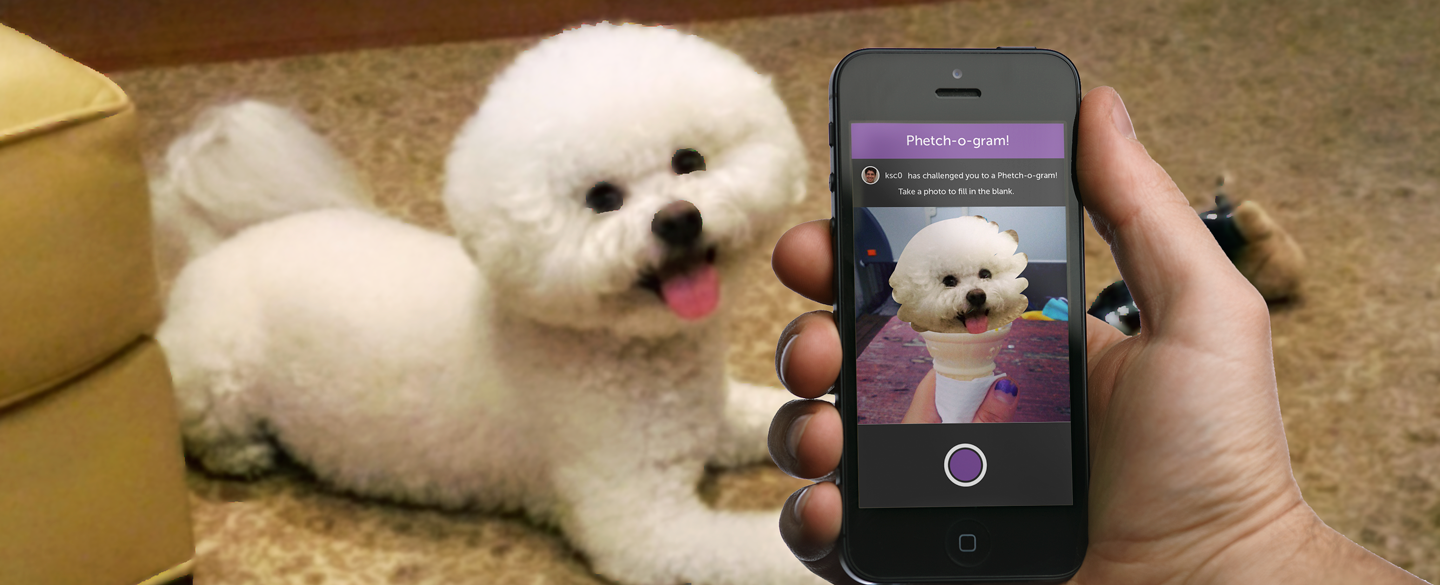
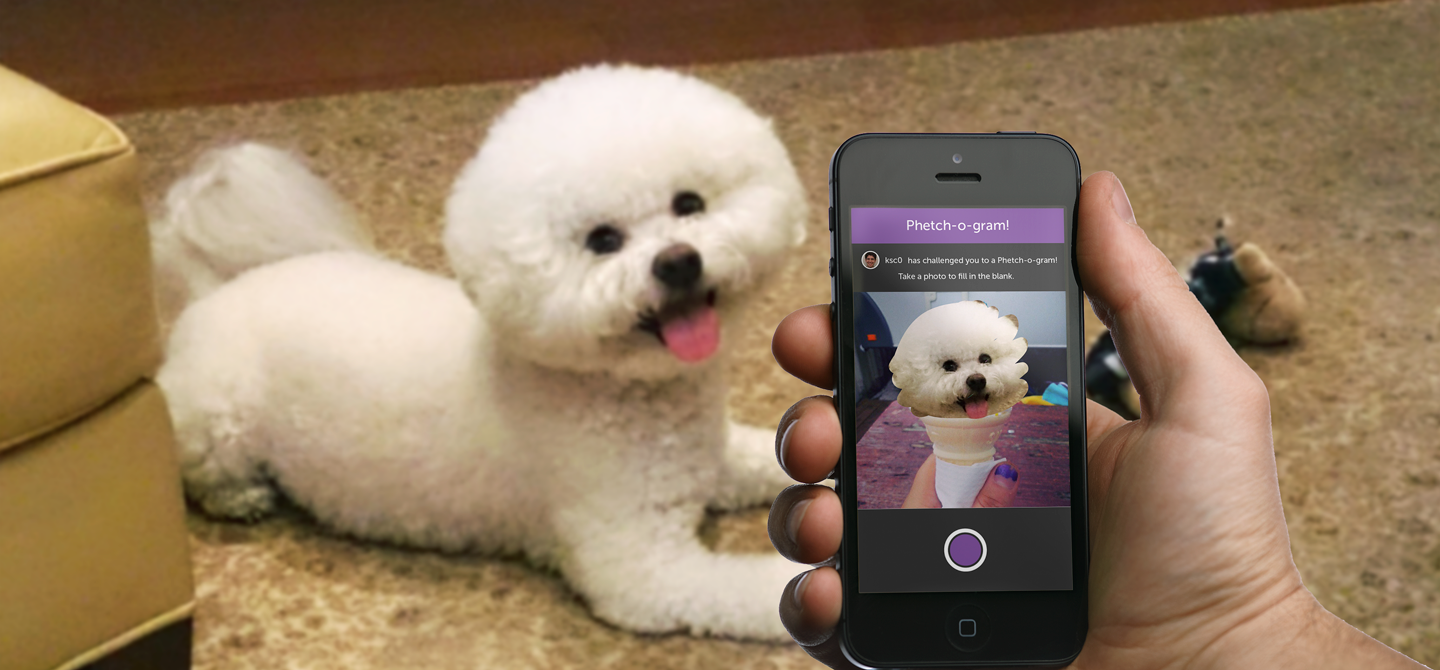
misc tweaks

diff --git a/index.html b/index.html
@@ -62,7 +62,7 @@
 </section>
 <section class="signup">
     <div class="container">
-        <h3 class="sectionheader">Sign up for Phetch today!</h3>
+        <h1 class="sectionheader">Sign up for Phetch today!</h1>
         <p>We're currently pretending to be in private beta. Sign up for updates.</p>
 
         <form action="//phet.us9.list-manage.com/subscribe/post?u=779f968f10aa64f000651658e&amp;id=b18e4191b5" method="post" id="mc-embedded-subscribe-form" name="mc-embedded-subscribe-form" class="validate" target="_blank" novalidate>
@@ -80,7 +80,7 @@
             </div>    <!-- real people should not fill this in and expect good things - do not remove this or risk form bot signups-->
         </form>
 </section>
-<!--<footer><div class="container">Made with ♥ in NYC. (stop trying to make phetch happen).</div></footer>-->
+<footer><div class="container">Phetch was made with ♥ in NYC. No puppies were harmed in the making of this app.</div></footer>
 <script type="text/template" class="testimonial">
 <div class="testimonial">
     <div class="quote">

diff --git a/css/sections/howitworks.less b/css/sections/howitworks.less
@@ -73,7 +73,7 @@
 
         &.step-1 {
             .photo {
-                background-image: url(../images/steps/step1.png);
+                background-image: url(../images/steps/step-alt-1.png);
             }
         }
 
@@ -83,13 +83,13 @@
             }
             .photo {
                 float: left;
-                background-image: url(../images/steps/step2.png);
+                background-image: url(../images/steps/step-alt-2.png);
             }
         }
 
         &.step-3 {
             .photo {
-                background-image: url(../images/steps/step3.png);
+                background-image: url(../images/steps/step-alt-3.png);
             }
         }
     }
@@ -100,8 +100,9 @@
         width: @size;
         display: inline-block;
         margin-left: 10px;
+        padding-left: 3px;
         border-radius: 50%;
-        border: 2px solid white;
+        // border: 2px solid white;
         width: @size;
         font-size: 40px;
         line-height: @size;

diff --git a/css/sections/hero.less b/css/sections/hero.less
@@ -1,7 +1,7 @@
 .hero {
     @phone-width: 331.5px;
     color: white;
-    background-image: url(../images/hero-image.png);
+    background-image: url(../images/hero-images/hero-image2.png);
     background-position: center;
     background-repeat: none;
 
@@ -12,7 +12,8 @@
 
     .container {
         position: relative;
-        min-height: 300px;
+        min-height: 250px;
+        padding: 340px 0px 60px 0px;
     }
 
     .logo {

diff --git a/css/sections/testimonials.less b/css/sections/testimonials.less
@@ -4,7 +4,7 @@
     background: @purple;
 
     .sectionheader {
-        font-size: @large-size;
+        // font-size: @large-size;
         padding-bottom: 0;
         hr {
             margin-top: 30px;
@@ -42,7 +42,7 @@
         color: #FFF;
         text-align: center;
         font-weight: 200;
-        font-size: 150%;
+        font-size: 120%;
         line-height: 2;
 
         p {

diff --git a/css/sections/signup.less b/css/sections/signup.less
@@ -9,13 +9,14 @@
     }
 
     .sectionheader {
-        padding-bottom: 40px;
-        font-size: @holy-fucking-shit-size;
+        padding-bottom: 20px;
+        // font-size: @holy-fucking-shit-size;
     }
 
     p {
         font-size: 24px;
-        margin-bottom: 20px;
+        margin-bottom: 60px;
+        text-align: center;
     }
 
     input {

diff --git a/css/footer.less b/css/footer.less
@@ -1,9 +1,10 @@
 
 footer {
-	position: fixed;
-    bottom: 0;
+	// position: fixed;
+    // top: 0;
     width: 100%;
-	background-color: @yellow;
+	background-color: @white;
+	color: @dark-gray;
     padding: 10px;
 
     .container {

diff --git a/css/elements.less b/css/elements.less
@@ -24,3 +24,7 @@ h3 {
     font-size: @large-size;
     margin-bottom: 20px;
 }
+
+input {
+	font-family: @sans-serif; // for some reason it was defaulting to a different font on submit without this
+}

diff --git a/css/helpers/constants.less b/css/helpers/constants.less
@@ -4,6 +4,7 @@
 @aqua: rgb(0, 188, 223);
 @gray: rgb(128, 128, 128);
 @dark-gray: #444;
+@white: #fff;
 @titlefont: 4em;
 @subtitlefont: @titlefont/2;
 @sectionfont: @titlefont/3;

diff --git a/css/layout.less b/css/layout.less
@@ -11,7 +11,7 @@
 // sections
 .sectionheader {
     text-align: center;
-    padding: 100px 0;
+    padding: 50px 0;
     font-weight: normal;
 
 }
